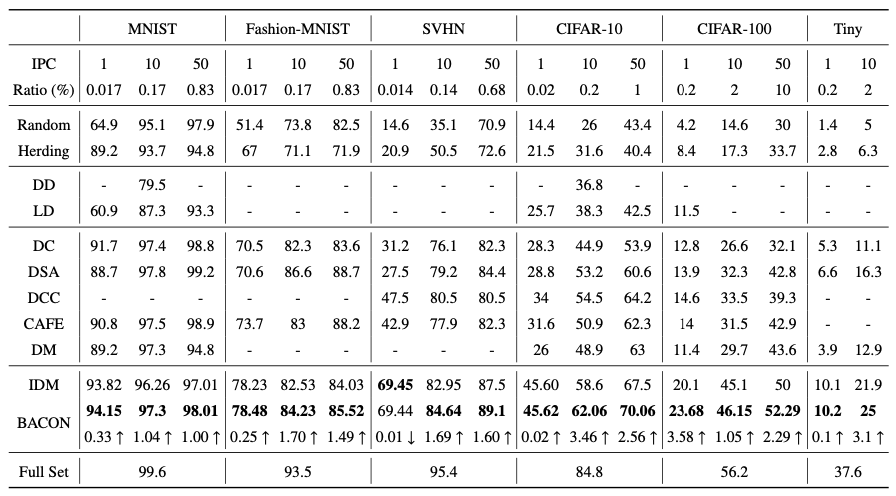
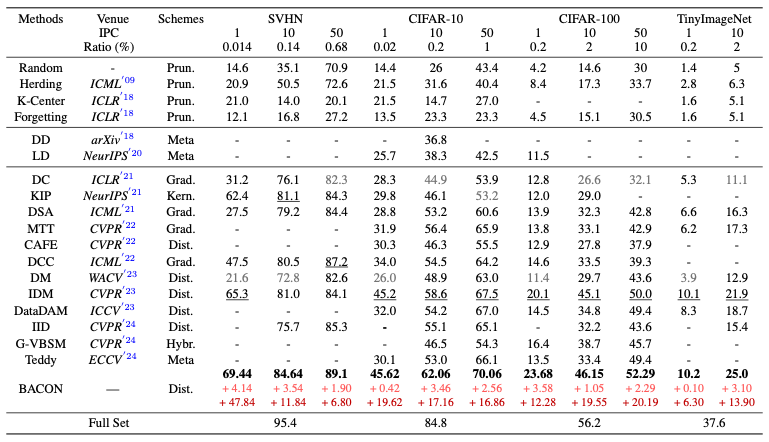
update

Changed region(s): [[0.0, 0.0, 0.9987, 1.0]]

diff --git a/index.html b/index.html
@@ -289,7 +289,7 @@
 					<figure>
 						<img class="round" style="width:800px" src="./resources/overview.png"/>
 						<figcaption style="font-size: 16px; text-align: left; color: #555;">
-							<strong>Figure 1:</strong> Comparison of BACON and existing DD methods: (a) Traditional methods align gradients and distributions on original and synthetic datasets. (b) BACON transforms DD into a Bayesian optimization task, generating synthetic images using likelihood and prior probabilities. 
+							<strong>Figure 1:</strong> Comparison of our method with previous methods: (a) Existing DD methods typically align gradients and distributions, but lack theoretical guarantees. (b) BACON models DD as a Bayesian optimization problem, generating synthetic images by assessing likelihood and prior probabilities, thereby improving accuracy and reducing training costs. 
 						</figcaption>
 					</figure>
 				</center>
@@ -299,7 +299,8 @@
 		<tr>
 			<td>
 				<p style="background-color: #f0f0f0; padding: 15px;">
-					<strong>Abstract:</strong> Dataset Distillation (DD) aims to distill knowledge from extensive datasets into more compact ones while preserving performance on the test set, thereby reducing storage costs and training expenses. However, existing methods often suffer from computational intensity, particularly exhibiting suboptimal performance with large dataset sizes due to the lack of a robust theoretical framework for analyzing the DD problem. To address these challenges, we propose the <u><strong>BA</strong></u>yesian optimal <u><strong>CON</strong></u>densation framework (<u><strong>BACON</strong></u>), which is the first work to introduce the Bayesian theoretical framework to the literature of DD. This framework provides theoretical support for enhancing the performance of DD. Furthermore, BACON formulates the DD problem as the minimization of the expected risk function in joint probability distributions using the Bayesian framework. Additionally, by analyzing the expected risk function for optimal condensation, we derive a numerically feasible lower bound based on specific assumptions, providing an approximate solution for BACON. We validate BACON across several datasets, demonstrating its superior performance compared to existing state-of-the-art methods. For instance, under the IPC-10 setting, BACON achieves a 3.46% accuracy gain over the IDM method on the CIFAR-10 dataset and a 3.10% gain on the TinyImageNet dataset. Our extensive experiments confirm the effectiveness of BACON and its seamless integration with existing methods, thereby enhancing their performance for the DD task. Code and distilled datasets are available at <a href="https://github.com/zhouzhengqd/BACON" target="_blank"><u><strong>BACON</strong></u></a>.
+					<strong>Abstract:</strong> Dataset Distillation (DD) aims to condense large datasets into compact synthetic sets that preserve performance on unseen data, thereby reducing storage and training costs. However, most existing methods emphasize empirical performance without solid theoretical grounding, leaving issues such as optimization inefficiency and the lack of theoretical guarantees against suboptimal solutions unresolved. To bridge this gap, we propose the <u><strong>BA</strong></u>yesian optimal <u><strong>CON</strong></u>densation framework (<u><strong>BACON</strong></u>), the first to incorporate a Bayesian perspective into dataset distillation. BACON offers a principled probabilistic formulation by casting DD as a Bayesian optimization problem, addressing the lack of Bayesian theoretical analysis in prior methods. To characterize the theoretical limit of DD, we derive a numerically tractable lower bound on the expected risk over the joint distribution of latent variables. Under mild assumptions, we obtain an approximate solution for data synthesis, where incorporating prior knowledge improves optimization efficiency through guiding posterior estimation. We evaluate BACON against 18 state-of-the-art methods on four standard image classification datasets under various images-per-class (IPC) settings, where it consistently demonstrates superior performance. For example, under the IPC-10 setting on CIFAR-10, BACON achieves the largest accuracy gain of 17.16\% among all methods, outperforming the second-best approach, IDM, by 3.46\%, while also reducing both synthesis and training costs. These results underscore the theoretical soundness and practical effectiveness of BACON for dataset distillation. Code and distilled datasets are available at <a href="https://github.com/zhouzhengqd/BACON" 
+					target="_blank"><u><strong>BACON</strong></u></a>.
 				</p>
 				
 				
@@ -310,15 +311,23 @@
 	
 	<hr>
 	
-	<center><h1>Background, Motivation, and Contribution</h1></center> <p> <strong>Dataset Distillation (DD)</strong> aims to reduce dataset size while maintaining model performance. However, existing methods struggle with large datasets and lack a strong theoretical foundation, as shown in <strong>Figure 1(a)</strong>. Current approaches are computationally expensive and often underperform on complex tasks, particularly with large-scale datasets. </p> <ul> <li><i>How can we effectively formulate the DD problem?</i></li> <li><i>What is the theoretical lower bound for optimal condensation?</i></li> </ul> <p> To overcome these challenges, we introduce the <strong>Bayesian Optimal Condensation Framework (BACON)</strong>, the first Bayesian approach to DD. BACON provides both a solid theoretical foundation and a numerically feasible solution. By framing DD as a minimization problem within Bayesian joint distributions, BACON significantly improves performance, particularly on large datasets like CIFAR-10 and TinyImageNet, as illustrated in <strong>Figure 1(b)</strong>. </p>
+	<center><h1>Background, Motivation, and Contribution</h1></center> <p> <strong>Dataset Distillation (DD)</strong> aims to reduce dataset size while maintaining model performance. Despite significant progress in dataset distillation, most existing methods prioritize empirical performance over theoretical grounding, leading to inefficient optimization and a lack of theoretical guarantees against suboptimal solutions. Fundamentally, DD can be framed as an \textbf{optimization problem over probability distributions}, yet existing approaches lack a principled probabilistic formulation as shown in <strong>Figure 1(a)</strong>. To explore Bayesian principles for dataset distillation, leading to the following key research questions: 
+	
+	</p> <ul> <li><i>How can dataset distillation be framed within a probabilistic framework?
+
+	</i></li> <li><i>What is the theoretical lower bound for optimal condensation?
+		
+	</i></li> <li><i>How can Bayesian methods enable efficient and practical data synthesis? </ul> <p></p> 
+	
+	To address the aforementioned challenges, we propose the <strong>Bayesian Optimal Condensation Framework (BACON)</strong>, the first to apply a Bayesian perspective to dataset distillation. BACON formulates dataset distillation (also referred to as condensation) as a Bayesian optimization problem that minimizes expected risk. A theoretical lower bound is derived over the joint distribution of latent variables, revealing the fundamental limits of optimal condensation. For practical implementation, the risk is approximated under specific assumptions, enabling efficient data synthesis through likelihood estimation and prior knowledge from the original dataset. The BACON method is illustrated in <strong>Figure 1(b)</strong>, along with results on accuracy and training time. BACON is evaluated against 18 state-of-the-art methods on four standard image classification datasets: SVHN, CIFAR-10, CIFAR-100, and TinyImageNet, under varying IPC settings. It consistently outperforms all compared methods, including gradient-based approaches (e.g., DC, DSA, DCC), distribution-based approaches (e.g., IDM, DataDAM, IID), and recent methods such as G-VBSM and Teddy. For example, under the IPC-10 setting on CIFAR-10, BACON achieves the highest accuracy improvement of 17.16%, surpassing the second-best approach, IDM, by 3.46%, while also reducing both synthesis and training costs. These results highlight the theoretical rigor and practical advantages of BACON in dataset distillation.
 	Key Benefits of BACON:
 	<ul>
-		<li><i><strong>Strong Theoretical Foundation:</strong> Leveraging Bayesian optimization to guide the DD process.</i></li>
-		<li><i><strong>Improved Performance:</strong> Outperforms existing methods with higher accuracy on benchmark datasets.</i></li>
-		<li><i><strong>Scalability:</strong> Efficiently handles large datasets and integrates seamlessly with existing systems.</i></li>
+		<li><i><strong>First Bayesian DD Framework:</strong> We are the first to introduce a Bayesian framework for dataset distillation, formulating it as a Bayesian optimization problem that minimizes the expected risk. We derive a theoretical lower bound on the expected risk over the joint distribution of latent variables, providing new insights into the fundamental limits of optimal condensation.</i></li>
+		<li><i><strong>Efficient Distillation Algorithm:</strong> We propose the BACON framework (Bayesian optimal CONdensation), an efficient method that minimizes the expected risk for dataset distillation. By incorporating key assumptions such as a Gaussian prior and a total variance constraint, BACON derives loss terms to effectively guide the distillation process.</i></li>
+		<li><i><strong>Superior Empirical Performance:</strong> Extensive experiments comparing BACON with various dataset distillation methods across multiple image classification datasets demonstrate that BACON consistently outperforms all methods, showcasing superior performance in both accuracy and efficiency.</i></li>
 	  </ul>
 	<hr>
-	<center><h1>Bayesian Optimal Condensation Framework</h1></center> <tr> <td width="260px"> <center> <figure> <img class="round" style="width:800px" src="./resources/method.png"/> <figcaption style="font-size: 16px; text-align: left; color: #555;"> <strong>Figure 2:</strong> Illustration of BACON: The neural network outputs a distribution from both synthetic and real datasets. BACON formulates this distribution as a Bayesian optimal condensation risk function and derives its optimal solution using Bayesian principles. </figcaption> </figure> </center> </td> </tr> <p>As shown in <strong>Figure 2</strong>, BACON uses a Bayesian-based joint probability model to optimize dataset distillation. It derives a condensation risk function to compute the optimal synthetic dataset and applies approximation methods for efficient solution. The Bayesian optimal condensation risk function is defined in <a href="#theorem3.4">Theorem 3.4</a>, and the risk function’s theoretical lower bound is established in <a href="#theorem3.6">Theorem 3.6</a>. Assumptions on <a href="#assumption1">log-likelihood</a> and <a href="#assumption2">prior distribution</a> are introduced to approximate solutions and define the training strategy. BACON represents the first theoretical analysis of optimal condensation via Bayesian principles, providing a strong foundation for improved distillation performance.</p>
+	<center><h1>Bayesian Optimal Condensation Framework</h1></center> <tr> <td width="260px"> <center> <figure> <img class="round" style="width:800px" src="./resources/method.png"/> <figcaption style="font-size: 16px; text-align: left; color: #555;"> <strong>Figure 2:</strong> Overview of BACON: BACON formulates DD as Bayesian risk minimization over embeddings (*), and derives a tractable lower bound for optimization (I), guided by prior and likelihood from the original data (II). Monte Carlo sampling accelerates optimization (III), and a loss is constructed under two assumptions (IV) to update synthetic data via gradient descent (V). </figcaption> </figure> </center> </td> </tr> <p>As shown in <strong>Figure 2</strong>, BACON uses a Bayesian-based joint probability model to optimize dataset distillation. It derives a condensation risk function to compute the optimal synthetic dataset and applies approximation methods for efficient solution. The Bayesian optimal condensation risk function is defined in <a href="#theorem3.4">Theorem 3.4</a>, and the risk function’s theoretical lower bound is established in <a href="#theorem3.6">Theorem 3.6</a>. Assumptions on <a href="#assumption1">log-likelihood</a> and <a href="#assumption2">prior distribution</a> are introduced to approximate solutions and define the training strategy. BACON represents the first theoretical analysis of optimal condensation via Bayesian principles, providing a strong foundation for improved distillation performance.</p>
 		
 	  <head>
 		<meta charset="UTF-8">
@@ -372,7 +381,7 @@
 						<figure>
 							<img class="round" style="width:800px" src="./resources/results_1.png"/>
 							<figcaption style="font-size: 16px; text-align: left; color: #555;">
-								<strong>Table 1:</strong> Comparison with previous coreset selection and dataset condensation methods: Like most state-of-the-art methods, we evaluate our method on six datasets (MNIST, Fashion-MNIST, SVHN, CIFAR-10/100, TinyImageNet) with different numbers of synthetic images per class (IPC). The ``Ratio(%)'' represents the condensed images' ratio to the entire training set. For reference, ``Full Set'' indicates the accuracy of the trained model on the complete training set. It's important to note that DD and LD employ different architectures, specifically LeNet for MNIST and AlexNet for CIFAR-10. Meanwhile, the remaining methods all utilize ConvNet. 
+								<strong>Table 1:</strong> Comparison with previous methods: BACON is compared with 18 state-of-the-art methods (4 coreset selection and 14 dataset distillation) across 4 datasets with varying IPC, including pruning-based (Prun.), meta-learning (Meta), gradient-based (Grad.), kernel-based (Kern.), hybrid-based (Hybr.), and distribution-based (Dist.) approaches (abbreviations in the table). ``Ratio(%)'' indicates the proportion of condensed images relative to the full training set, and ``Full Set'' shows accuracy with the original dataset. DD and LD refer to early-stage distillation methods with AlexNet, while others use ConvNet. Best accuracy (%) is in <span style="font-weight: bold; color: #000000;">bold</span>, second-best in <span style="text-decoration: underline; color: #000000;">underlined</span>, and worst in <span style="color: #888888;">gray</span>; improvements over the second-best and worst are shown in <span style="color: #ef5350;">light red</span> and <span style="color: #c62828;">dark red</span>, respectively.
 							</figcaption>
 						</figure>
 					</center>
@@ -395,12 +404,6 @@
 	<hr>
 	<table align=center width=450px>
 		<center><h1>Visulization</h1></center>
-		<tr>
-			<td><img class="round" style="width:800px" src="./resources/mnist.png"/></td>
-		</tr>
-		<tr>
-			<td><img class="round" style="width:800px" src="./resources/f-mnist.png"/></td>
-		</tr>
 		<tr>
 			<td><img class="round" style="width:800px" src="./resources/svhn.png"/></td>
 		</tr>

diff --git a/README.md b/README.md
@@ -6,7 +6,7 @@ Page of BACON: Bayesian Optimal Condensation Framework for Dataset Distillation
 
 **Page**: [https://zhouzhengqd.github.io/bacon.page/](https://zhouzhengqd.github.io/bacon.page/).
 
-**Code**: [https://github.com/zhouzhengqd/BACON.git](https://github.com/zhouzhengqd/BACON.git).
+**Code**: [https://github.com/zhouzhengqd/BACON](https://github.com/zhouzhengqd/BACON).
 
 **Paper:** [https://arxiv.org/pdf/2406.01112](https://arxiv.org/pdf/2406.01112).
 
@@ -14,4 +14,4 @@ Page of BACON: Bayesian Optimal Condensation Framework for Dataset Distillation
 
 ## Abstract
 
-> **Abstract** Dataset Distillation (DD) reduces dataset size while maintaining test set performance, helping to cut storage and training costs. Current DD methods struggle with large datasets and lack a solid theoretical foundation. To address this, we introduce the <u>**BA**</u>yesian Optimal <u>**CON**</u>densation Framework (<u>**BACON**</u>), the first Bayesian approach to DD. BACON formulates DD as a minimization problem in Bayesian joint distributions and derives a numerically feasible lower bound. Our experiments show that BACON outperforms state-of-the-art methods, with significant accuracy improvements on CIFAR-10 and TinyImageNet. BACON seamlessly integrates with existing systems and boosts DD performance. Code and distilled datasets are available at [BACON](https://github.com/zhouzhengqd/BACON).
+> **Abstract**: <u>**BACON**</u> (<u>**BA**</u>yesian Optimal <u>**CON**</u>densation Framework) introduces a Bayesian framework to Dataset Distillation (DD), offering a principled probabilistic approach that addresses the lack of theoretical grounding in existing methods. By formulating DD as a Bayesian optimization problem, BACON derives a numerically tractable lower bound on expected risk, facilitating efficient data synthesis. Evaluated on multiple image classification benchmarks, BACON consistently outperforms state-of-the-art methods, achieving significant accuracy gains while reducing both synthesis and training costs.
